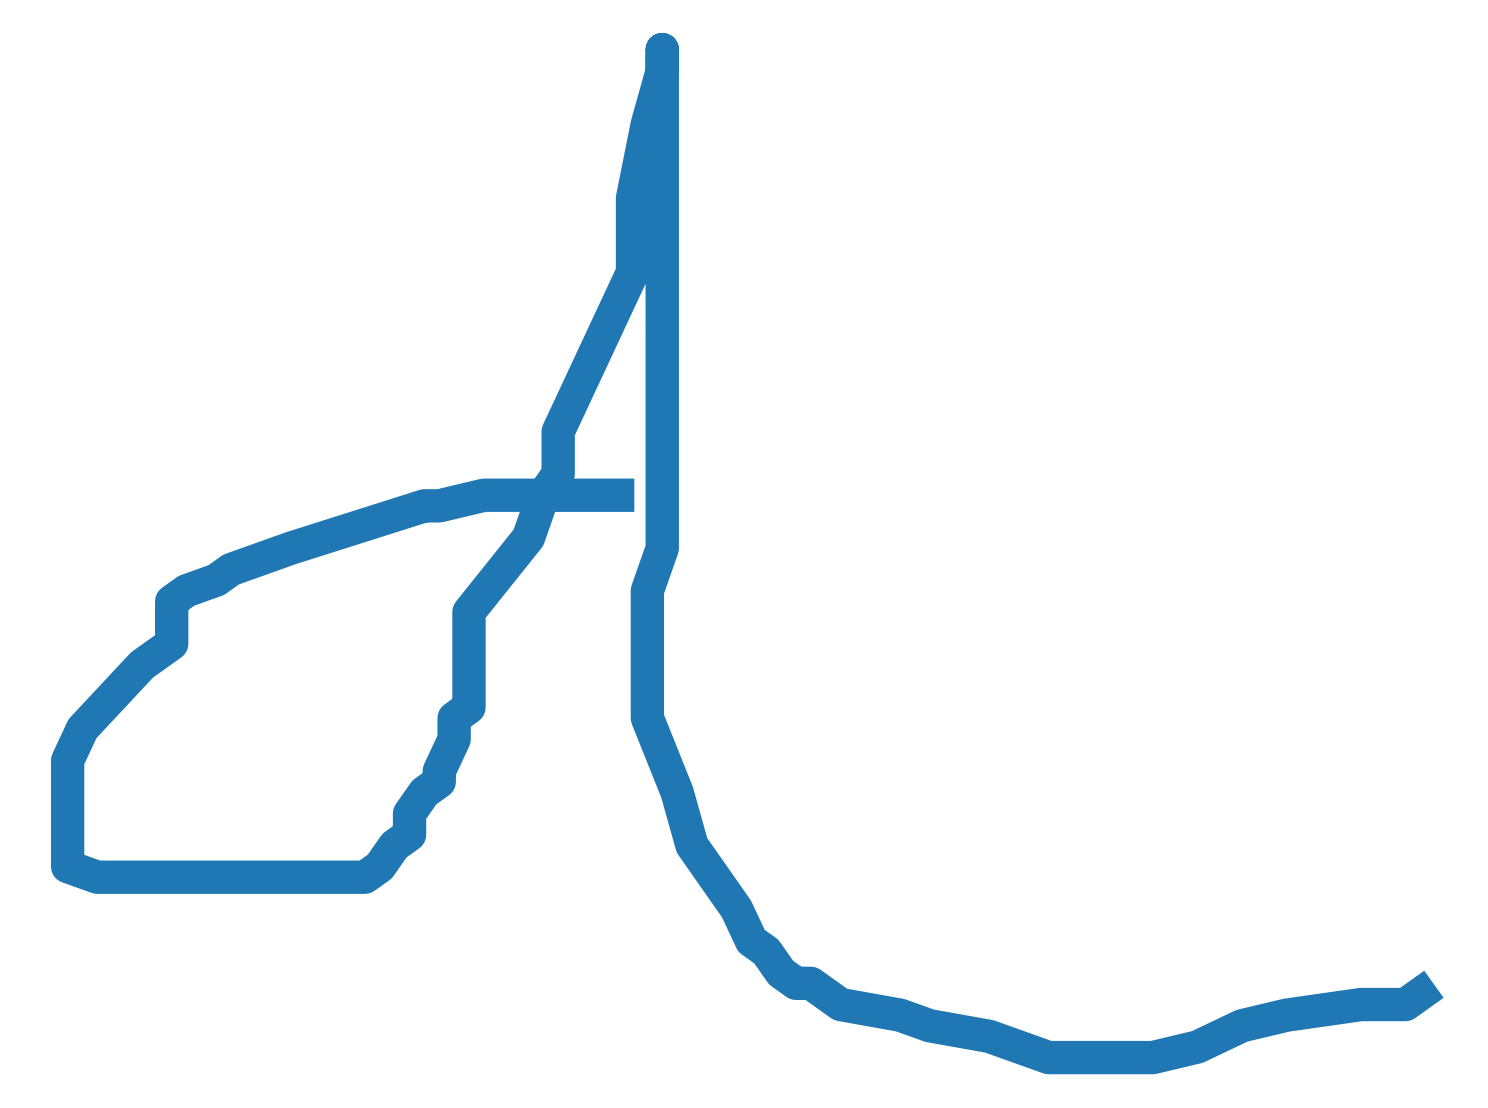
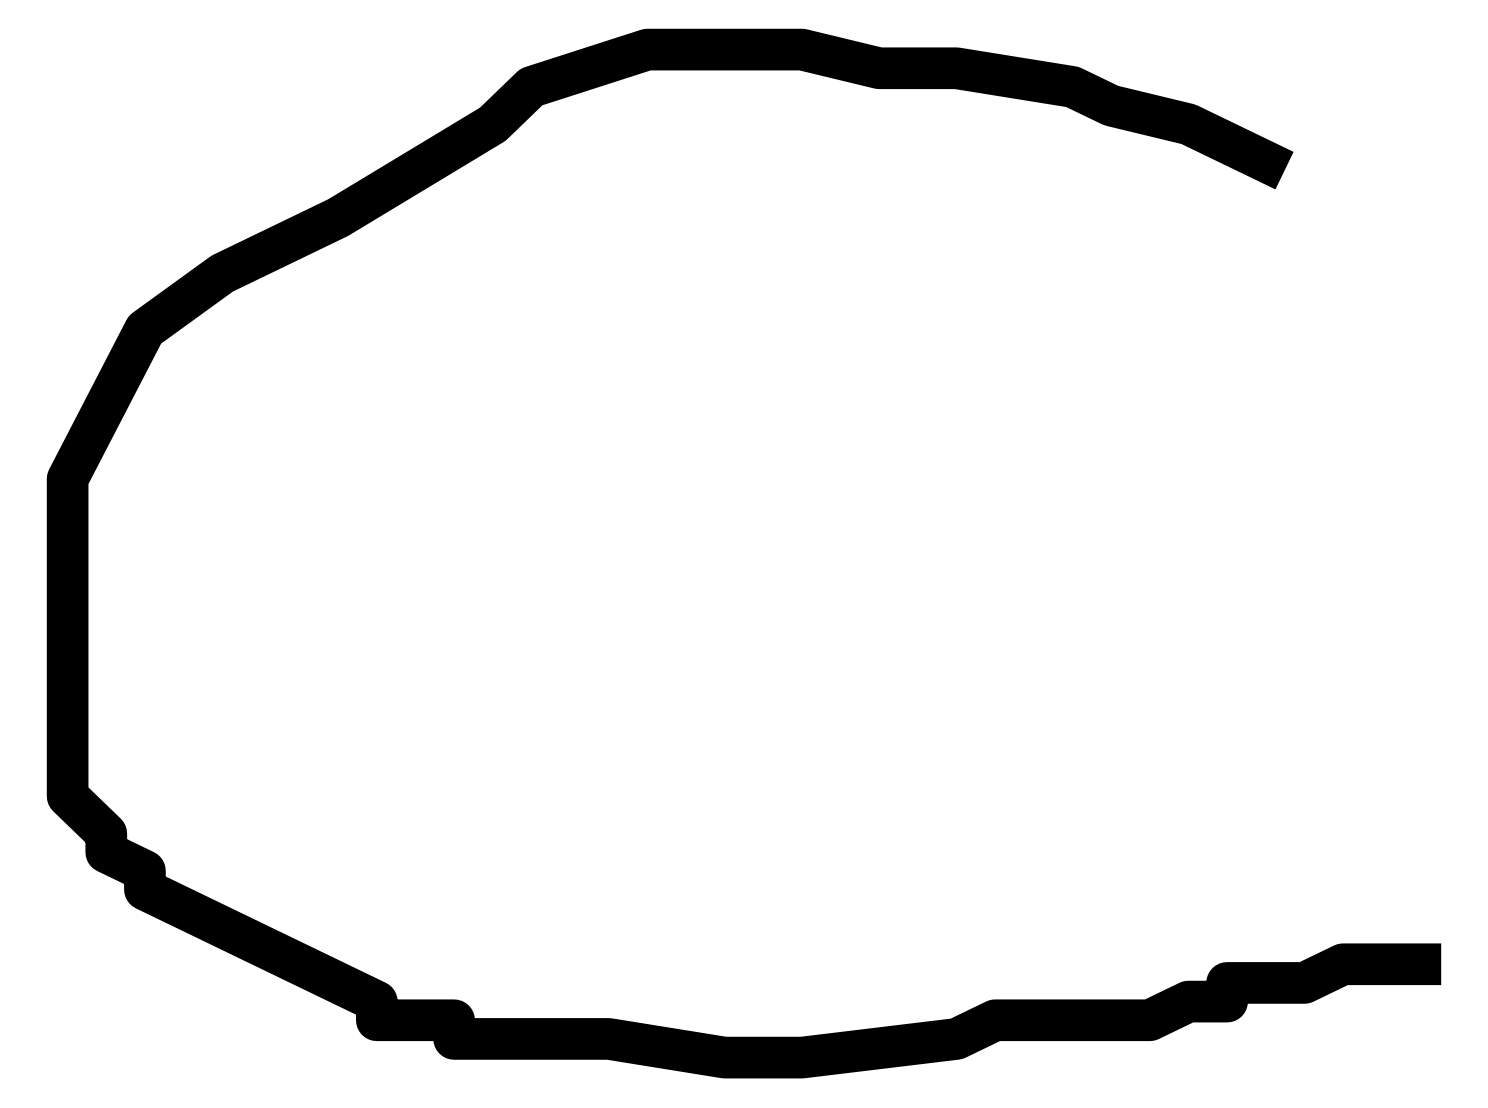
shen

Changed region(s): [[0.0309, 0.0, 0.9892, 0.9819]]

diff --git a/src/choose_adaptive_words/choose_adaptive_words/strugg_letter.py b/src/choose_adaptive_words/choose_adaptive_words/strugg_letter.py
@@ -1,130 +1,206 @@
-# from std_msgs.msg import (
-#     String,
-#     Int32MultiArray,
-#     MultiArrayDimension,
-#     MultiArrayLayout,
-# )
-# import requests
-# from glob import glob
-# import rclpy
-# from rclpy.node import Node
-# import os
-# from interface.msg import Strokes, Stroke
-# from interface.srv import GetDemo, TextToImage
-# from nav_msgs.msg import Path
-# import matplotlib.pyplot as plt
-# import pytesseract
-# from PIL import Image
+from std_msgs.msg import (
+    String,
+    Int32MultiArray,
+    MultiArrayDimension,
+    MultiArrayLayout,
+)
+import requests
+from glob import glob
+import rclpy
+from rclpy.node import Node
+import os
+from interface.msg import Strokes, Stroke
+from interface.srv import GetDemo, TextToImage
+from nav_msgs.msg import Path
+import matplotlib.pyplot as plt
+import pytesseract
+from PIL import Image
 
-# LETTER_FILES_READY_TOPIC = "files_ready"
-# FEEDBACK_READY_TOPIC = "feedback_ready"
-# TOPIC_USER_DRAWN_SHAPES = "user_drawn_shapes"
+LETTER_FILES_READY_TOPIC = "files_ready"
+FEEDBACK_READY_TOPIC = "feedback_ready"
+TOPIC_USER_DRAWN_SHAPES = "user_drawn_shapes"
 
 
-# class StruggLetterNode(Node):
-#     def __init__(self):
-#         super().__init__("strugg_letter")
+class StruggLetterNode(Node):
+    def __init__(self):
+        super().__init__("strugg_letter")
 
-#         self.create_subscription(
-#             String,
-#             LETTER_FILES_READY_TOPIC,
-#             self.compute_strugg_feedback,
-#             10,
-#         )
-#         self.create_subscription(
-#             Int32MultiArray,
-#             TOPIC_USER_DRAWN_SHAPES,
-#             self.pentrack,
-#             10,
-#         )
+        self.create_subscription(
+            String,
+            LETTER_FILES_READY_TOPIC,
+            self.compute_strugg_feedback,
+            10,
+        )
+        self.create_subscription(
+            Int32MultiArray,
+            TOPIC_USER_DRAWN_SHAPES,
+            self.pentrack,
+            10,
+        )
 
-#         self.feedback_publisher = self.create_publisher(
-#             String, FEEDBACK_READY_TOPIC, 10
-#         )
-#         self.track = None
+        self.feedback_publisher = self.create_publisher(
+            String, FEEDBACK_READY_TOPIC, 10
+        )
+        self.track = None
 
-#     def pentrack(self, msg):
-#         self.track = msg.data
+    def pentrack(self, msg):
+        self.track = msg.data
 
-#     def compute_strugg_feedback(self, msg):
-#         word = str(msg.data)
-#         images_dir = "/home/nao/strugg_letter_data/"
-#         image_files = glob(os.path.join(images_dir, "*.png"))
-#         self.get_logger().info(word + "!!!!!!!!!!")
-#         if word is not None:
-#             for k, image_file in enumerate(image_files):
-#                 text = word[k]
-#                 ocr, result1, test_result = self.identify_strugg_letter(
-#                     image_file, text
-#                 )
-#                 self.get_logger().info("test_result " + str(test_result))
-#                 a = test_result
-#                 result = a.strip()
-#                 self.get_logger().info("Identidy your strugged letter(s)")
-#                 if len(result) == len(text):
-#                     if text == result:
-#                         self.get_logger().info(
-#                             "-------------------------------------------"
-#                         )
+    def compute_strugg_feedback(self, msg):
+        word = str(msg.data)
+        # images_dir = "/home/nao/strugg_letter_data/"
+        # image_files = glob(os.path.join(images_dir, "*.png"))
 
-#                         self.get_logger().info(
-#                             "Your wrote letter: "
-#                             + text
-#                             + " seems good! Keep going!"
-#                         )
-#                     else:
-#                         self.get_logger().info(
-#                             "-------------------------------------------"
-#                         )
+        image_filenames = []
 
-#                         self.get_logger().info(
-#                             "Your wrote letter: "
-#                             + text
-#                             + " looks like: "
-#                             + result
-#                             + ". Please practice more"
-#                         )
-#                 else:
-#                     self.get_logger().info(
-#                         "You writing looks like: "
-#                         + result
-#                         + ", so it does match your input word."
-#                     )
+        # Specify the directory where your images are located
+        image_directory = "/home/nao/strugg_letter_data/"
 
-#             self.get_logger().info("Feedback Finished")
-#             self.get_logger().info(
-#                 "-------------------------------------------"
-#             )
-#         else:
-#             self.get_logger().info("You did not input any word")
+        # Iterate through the files in the directory
+        for filename in os.listdir(image_directory):
+            if filename.endswith(
+                ".png"
+            ):  # You can adjust the file format as needed
+                image_filenames.append(os.path.join(image_directory, filename))
 
-#     def identify_strugg_letter(self, filename, letter):
-#         url = "https://pen-to-print-handwriting-ocr.p.rapidapi.com/recognize/"
+        # Open and resize the images, assuming they have the same size
+        images = [
+            Image.open(filename).resize((255, 255))
+            for filename in image_filenames
+        ]
 
-#         files = {"srcImg": open(filename, "rb")}
-#         payload = {"Session": "string"}
-#         headers = {
-#             "X-RapidAPI-Key": "c97960a792mshf676e38f49cd3e6p12b5abjsnb145d15144af",
-#             "X-RapidAPI-Host": "pen-to-print-handwriting-ocr.p.rapidapi.com",
-#         }
+        # Calculate the size of the combined image
+        total_width = (len(images) + 2) * 255
+        combined_image = Image.new("RGB", (total_width, 255))
 
-#         response = requests.post(
-#             url, data=payload, files=files, headers=headers
-#         )
-#         self.get_logger().info("response " + str(response.json()))
-#         result1 = response.json()
-#         result1 = result1["value"]
+        # Paste the images side by side
+        x_offset = len(images) * 255
+        for image in images:
+            combined_image.paste(image, (x_offset, 0))
+            x_offset -= 255
 
-#         img = Image.open(filename)
-#         # Perform OCR using Tesseract
-#         custom_config = r"--oem 3 --psm 6"
-#         text = pytesseract.image_to_string(
-#             img, lang="eng", config=custom_config
-#         )
-#         result2 = text.strip()
+        # Save the combined image
+        combined_image.save("/home/nao/strugg_letter_data/combined_image.png")
 
-#         OCR = 0
-#         if result1 == letter or result2 == letter:
-#             OCR = 0.5
+        if word is not None:
+            text = word.strip()
+            test_result = self.identify_strugg_letter(
+                "/home/nao/strugg_letter_data/combined_image.png"
+            )
+            a = test_result
+            result = a.strip()
 
-#         return OCR, result1, result2
+            self.get_logger().info(result + "!!!!!!!!!!")
+
+            self.get_logger().info("Identidy your strugged letter(s)")
+            if len(result) == len(text):
+                for i in range(len(result)):
+                    if text[i] == result[i]:
+                        self.get_logger().info(
+                            "-------------------------------------------"
+                        )
+
+                        self.get_logger().info(
+                            "Your wrote letter: "
+                            + text[i]
+                            + " seems good! Keep going!"
+                        )
+                    elif text[i] == result[i].lower():
+                        self.get_logger().info(
+                            "-------------------------------------------"
+                        )
+
+                        self.get_logger().info(
+                            "Your wrote letter: "
+                            + text[i]
+                            + " seems good! Keep going!"
+                        )
+                    else:
+                        self.get_logger().info(
+                            "-------------------------------------------"
+                        )
+
+                        self.get_logger().info(
+                            "Your wrote letter: "
+                            + text[i]
+                            + " looks like: "
+                            + result[i]
+                            + ". Please practice more"
+                        )
+            else:
+                self.get_logger().info(
+                    "You witing looks like: "
+                    + result
+                    + ", so it does match your input word."
+                )
+
+            self.get_logger().info("Feedback Finished")
+            self.get_logger().info(
+                "-------------------------------------------"
+            )
+        else:
+            self.get_logger().info("You did not input any word")
+
+        # self.get_logger().info(word + "!!!!!!!!!!")
+        # if word is not None:
+        #     for k, image_file in enumerate(image_files):
+        #         text = word[k]
+        #         test_result = self.identify_strugg_letter(image_file)
+        #         a = test_result
+        #         result = a.strip()
+        #         self.get_logger().info("Identidy your strugged letter(s)")
+        #         if len(result) == len(text):
+        #             if text == result:
+        #                 self.get_logger().info(
+        #                     "-------------------------------------------"
+        #                 )
+
+        #                 self.get_logger().info(
+        #                     "Your wrote letter: "
+        #                     + text
+        #                     + " seems good! Keep going!"
+        #                 )
+        #             else:
+        #                 self.get_logger().info(
+        #                     "-------------------------------------------"
+        #                 )
+
+        #                 self.get_logger().info(
+        #                     "Your wrote letter: "
+        #                     + text
+        #                     + " looks like: "
+        #                     + result
+        #                     + ". Please practice more"
+        #                 )
+        #         else:
+        #             self.get_logger().info(
+        #                 "You writing looks like: "
+        #                 + result
+        #                 + ", so it does match your input word."
+        #             )
+
+        #     self.get_logger().info("Feedback Finished")
+        #     self.get_logger().info(
+        #         "-------------------------------------------"
+        #     )
+        # else:
+        #     self.get_logger().info("You did not input any word")
+
+    def identify_strugg_letter(self, filename):
+        url = "https://pen-to-print-handwriting-ocr.p.rapidapi.com/recognize/"
+
+        files = {"srcImg": open(filename, "rb")}
+        payload = {"Session": "string"}
+        headers = {
+            "X-RapidAPI-Key": "c97960a792mshf676e38f49cd3e6p12b5abjsnb145d15144af",
+            "X-RapidAPI-Host": "pen-to-print-handwriting-ocr.p.rapidapi.com",
+        }
+
+        response = requests.post(
+            url, data=payload, files=files, headers=headers
+        )
+        self.get_logger().info("response " + str(response.json()))
+        result1 = response.json()
+        result1 = result1["value"]
+
+        return result1

diff --git a/src/choose_adaptive_words/choose_adaptive_words/child_ui_bridge.py b/src/choose_adaptive_words/choose_adaptive_words/child_ui_bridge.py
@@ -146,7 +146,7 @@ class ChildUIBridge(Node):
             ]
             x_coords, y_coords = zip(*corrected_stroke_value)
             # plt.figure(figsize=(6, 6))
-            plt.plot(x_coords, y_coords, "-", linewidth=8, color="black")
+            plt.plot(x_coords, y_coords, "-", linewidth=10, color="black")
             plt.axis("off")
             plt.savefig(
                 f"/home/nao/strugg_letter_data/{k}.png",
